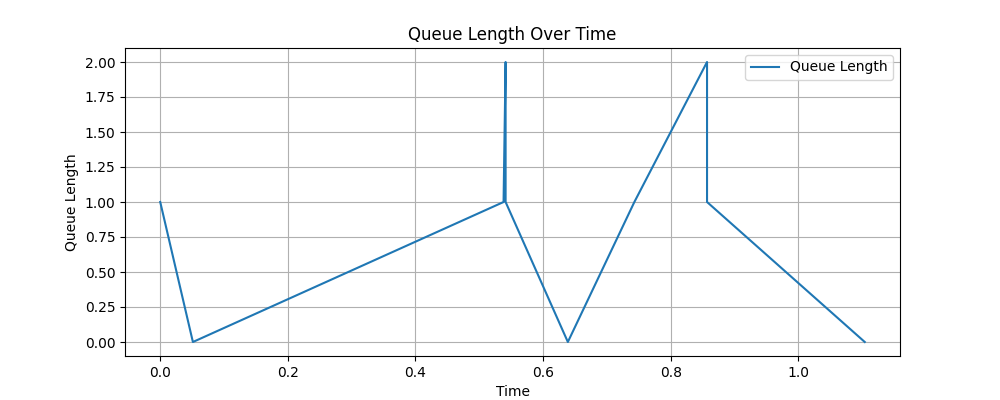
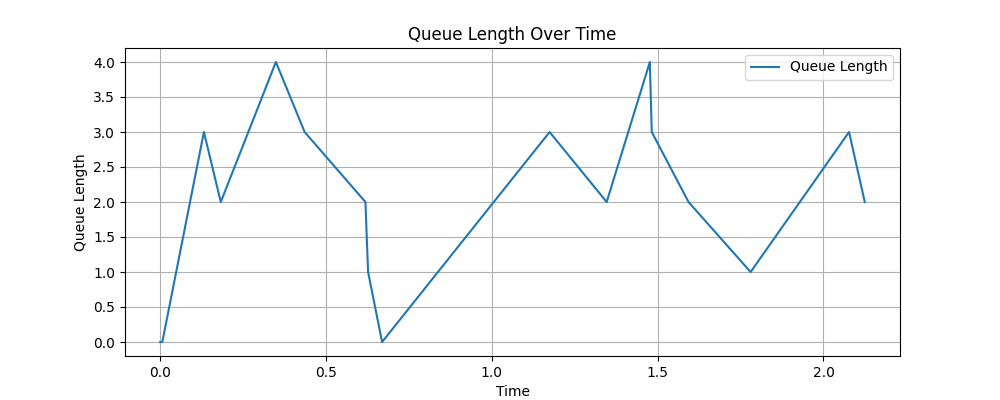
fix cumulative counts graph

diff --git a/mm1.py b/mm1.py
@@ -7,6 +7,7 @@ Date: 3/17/2025
 
 #== Imports ==#
 import os
+import heapq
 
 import matplotlib.pyplot as plt
 
@@ -22,7 +23,7 @@ class CongestionControl:
     '''
     def __init__(self):
         self.cwnd = 1
-        self.ssthresh = 64
+        self.ssthresh = 2
         self.acked = 0
 
         self.cwnd_log = []
@@ -208,16 +209,17 @@ class Queue():
         # init queues
         self.priority_queue = []
         self.event_queue = []
+        heapq.heapify(self.event_queue)  
         self.all_packets = []
 
         self.queue_len = 0
 
         # tracking/logging
-        self.time_log = []
-        self.queue_len_log = []
-        self.service_log = []
-        self.drop_log = []
-        self.block_log = []
+        self.time_log = [0]
+        self.queue_len_log = [0]
+        self.service_log = [0]
+        self.drop_log = [0]
+        self.block_log = [0]
 
     def insert_event(self, event: Event) -> None:
         '''
@@ -226,18 +228,7 @@ class Queue():
         Args:
             event (Event): event to be added
         '''
-        i = 0
-        j = len(self.event_queue)
-
-        while i < j:
-            mid = (i + j) // 2
-
-            if self.event_queue[mid].event_time < event.event_time:
-                i = mid + 1
-            else:
-                j = mid
-        
-        self.event_queue.insert(i, event)
+        heapq.heappush(self.event_queue, (event.event_time, event))
 
     def insert_packet(self, packet: Packet) -> None:
         '''
@@ -293,7 +284,7 @@ class Queue():
 
             # remove packet from priority and event queues
             self.priority_queue = [p for p in self.priority_queue if p.id != packet.id]
-            self.event_queue = [e for e in self.event_queue if e is not None and e.packet_id != packet.id]
+            self.event_queue = [(et, e) for (et, e) in self.event_queue if e.packet_id != packet.id]
 
             # no further events for this packet
             return None  
@@ -305,7 +296,7 @@ class Queue():
 
             # remove the serviced packet from the queue
             self.priority_queue = [p for p in self.priority_queue if p.id != packet.id]
-            self.event_queue = [e for e in self.event_queue if e.packet_id != packet.id]
+            self.event_queue = [(et, e) for (et, e) in self.event_queue if e.packet_id != packet.id]
 
             # if the queue is now empty, nothing to do
             if len(self.priority_queue) == 0:
@@ -325,7 +316,7 @@ class Queue():
             cc (CongestionControl, optional): An instance of a congestion control algorithm, if applicable. Defaults to None.
         '''
         # retrieve the first event from queue and update queue
-        event, self.event_queue = self.event_queue[0], self.event_queue[1:]
+        _, event = heapq.heappop(self.event_queue)
 
         # process event, determines what happens to packet
         new_event = self.handle_events(self.all_packets[event.packet_id], event.event_time, event.status)
@@ -337,24 +328,26 @@ class Queue():
             elif event.status == PacketStatus.DROP:
                 cc.on_loss(event.event_time)
 
-        self.log_stats(event.event_time if not new_event else new_event.event_time)  # log stats after handling the event
+        self.log_stats(event.event_time, event.status)  # log stats after handling the event
 
         if new_event is not None:
             # insert new event into queue 
             self.insert_event(new_event)
 
-    def log_stats(self, cur_time: float) -> None:
+    def log_stats(self, cur_time: float, status: PacketStatus) -> None:
         '''
         Logs the current statistics of the queue.
 
         Args:
             cur_time (float): The current time in the simulation.
+            status (PacketStatus): The type of event just handled.
         '''
-        self.time_log.append(cur_time)
-        self.queue_len_log.append(len(self.priority_queue))
-        self.service_log.append(self.n_service)
-        self.drop_log.append(self.n_drop)
-        self.block_log.append(self.n_block)
+        if status in [PacketStatus.SERVICED, PacketStatus.DROP]:
+            self.time_log.append(cur_time)
+            self.queue_len_log.append(len(self.priority_queue))
+            self.service_log.append(self.n_service)
+            self.drop_log.append(self.n_drop)
+            self.block_log.append(self.n_block)
 
 class Simulator():
     def __init__(self, lmbda: float, mu: float, theta: float, size: int | None, is_exp_drop: bool = False, use_tcp_reno: bool = False):
@@ -410,18 +403,18 @@ class Simulator():
                 self.queue.insert_packet(packet)
 
                 # log the current time and queue state
-                self.queue.log_stats(cur_time)
+                # self.queue.log_stats(cur_time)
 
                 # advance sim time and increment packet id
                 cur_time += rnd.exponential(1 / self.lmbda)
                 packet_id += 1
 
             # handle jobs in the queue
-            while self.queue.event_queue and cur_time >= self.queue.event_queue[0].event_time:
+            while self.queue.event_queue and cur_time >= self.queue.event_queue[0][0]:
                 self.queue.handle_jobs(self.cc)
 
         # compute and return blocking and dropping probabilities
-        return self.queue.n_block / n_packet, self.queue.n_drop / n_packet
+        return self.queue.n_block / n_packet, self.queue.n_drop / n_packet, (self.queue.service_log[-1], self.queue.drop_log[-1], self.queue.block_log[-1])
 
     def plot_results(self):
         '''
@@ -429,7 +422,7 @@ class Simulator():
         and cumulative counts of serviced, dropped, and blocked packets.
         This method generates two plots:
             1. Queue Length Over Time: Shows how the length of the queue changes over time.
-            2. Cumulative Packet Events Over Time: Displays the cumulative number of serviced, dropped, and blocked packets over time.
+            2. Cumulative Packet Events Over Time: Displays the cumulative number of serviced and dropped packets over time.
         '''
         times = self.queue.time_log
         zipped = sorted(zip(self.queue.time_log, self.queue.service_log, self.queue.drop_log, self.queue.block_log))
@@ -454,7 +447,7 @@ class Simulator():
         plt.figure(figsize=(10, 4))
         plt.plot(sorted_times, sorted_service, label="Serviced Packets")
         plt.plot(sorted_times, sorted_drop, label="Dropped Packets")
-        plt.plot(sorted_times, sorted_block, label="Blocked Packets")
+        plt.plot(sorted_times, sorted_block, label="Blocked Packets", color='red')
         plt.xlabel('Time')
         plt.ylabel('Cumulative Count')
         plt.title('Cumulative Packet Events Over Time')
@@ -498,9 +491,9 @@ class Simulator():
 def main():
     # set parameters
     mu = 10  # service rate (μ)
-    theta = 2 # deadline rate or fixed deadline time (θ)
-    lmbda = 3 # arrival rate (λ)
-    n_packet = 5 
+    theta = 1 # deadline rate or fixed deadline time (θ)
+    lmbda = 10 # arrival rate (λ)
+    n_packet = 20
 
     queue_size = 5 
     is_exp_drop = False
@@ -509,7 +502,8 @@ def main():
     sim = Simulator(lmbda=lmbda, mu=mu, theta=theta, size=queue_size, is_exp_drop=is_exp_drop, use_tcp_reno=True)
 
     # run sim
-    sim_pb, sim_pd = sim.run(n_packet=n_packet)
+    sim_pb, sim_pd, sim_counts = sim.run(n_packet=n_packet)
+    sim_service, sim_drop, sim_block = sim_counts
     sim.plot_results()
     
     # print results
@@ -524,6 +518,10 @@ def main():
     print("\nSimulation Statistics:")
     print(f"  - Blocked Rate: {sim_pb:.4f} ({sim_pb * 100:.2f}%)")
     print(f"  - Dropped Rate: {sim_pd:.4f} ({sim_pd * 100:.2f}%)")
+    print(f"  - Service Count: {sim_service}")
+    print(f"  - Drop Count: {sim_drop}")
+    print(f"  - Block Count: {sim_block}")
+    print(f"  - Total Packets Processed: {sim_service + sim_drop + sim_block}")
 
 if __name__ == "__main__":
     main()
